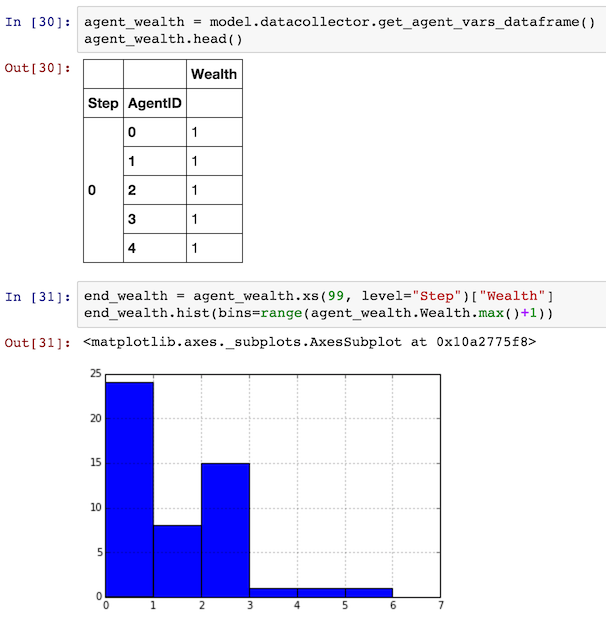
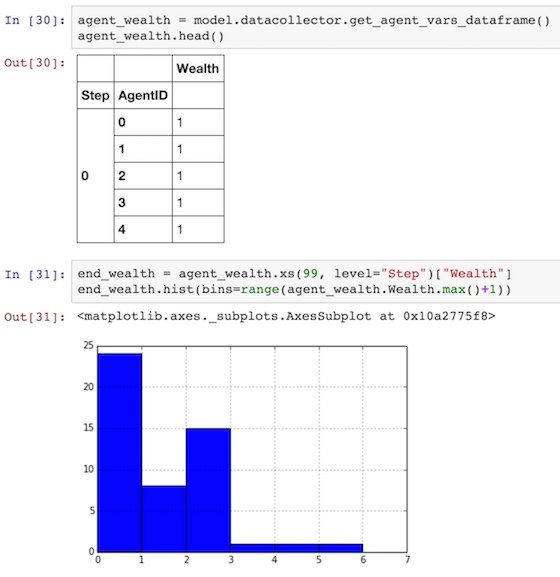
Some more graphics

diff --git a/docs/intro-tutorial.rst b/docs/intro-tutorial.rst
@@ -409,7 +409,7 @@ To get the series of Gini coefficients as a pandas DataFrame:
 
 .. image:: images/tutorial/dc_gini.png
    :width: 100%
-   :scale: 50%
+   :scale: 100%
    :alt: Model-level variable collected
    :align: center
 
@@ -428,6 +428,11 @@ You'll see that the DataFrame's index is pairs of model step and agent ID. You c
     end_wealth = agent_wealth.xs(19, level="Step")["Wealth"]
     end_wealth.hist(bins=range(agent_wealth.Wealth.max()+1))
 
+.. image:: images/tutorial/dc_endwealth.png
+   :width: 50%
+   :scale: 50%
+   :alt: Model-level variable collected
+   :align: center
 
 Or to plot the wealth of a given agent (in this example, agent 14):
 
@@ -435,13 +440,6 @@ Or to plot the wealth of a given agent (in this example, agent 14):
 
     one_agent_wealth = agent_wealth.xs(14, level="AgentID")
     one_agent_wealth.Wealth.plot()
-
-.. image:: images/tutorial/dc_endwealth.png
-   :width: 50%
-   :scale: 50%
-   :alt: Model-level variable collected
-   :align: center
-
 
 .. image:: images/tutorial/dc_oneagent.png
    :width: 50%
@@ -481,6 +479,11 @@ Now, we can set up and run the BatchRunner:
 
 Like the DataCollector, we can extract the data we collected as a DataFrame. Notice that each row is a model run, and gives us the parameter values associated with that run. We can use  this data to view a scatter-plot comparing the number of agents to the final Gini.
 
+.. image:: images/tutorial/bc_ginis.png
+   :width: 100%
+   :scale: 100%
+   :alt: Model-level variable collected
+   :align: center
 
 
 
